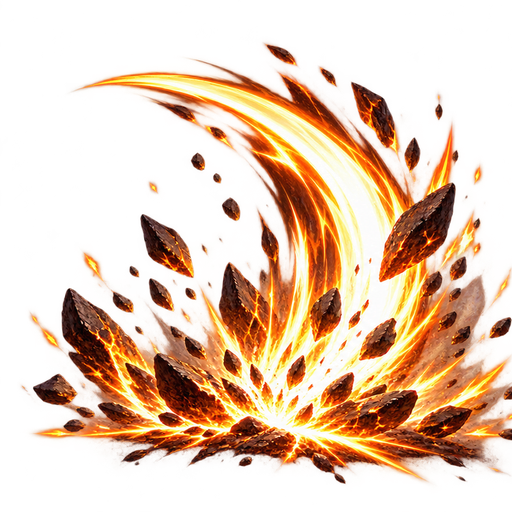
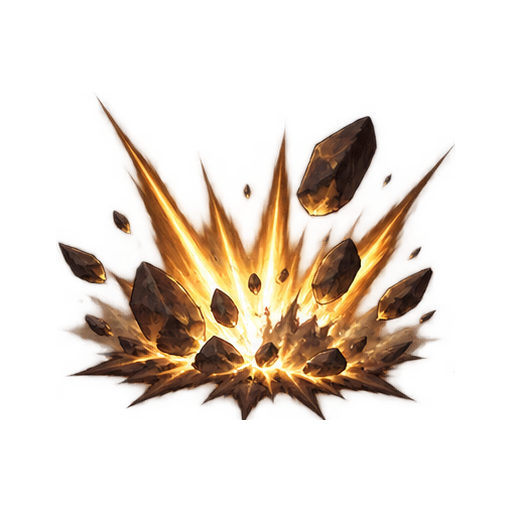
feat(development): integrate affinity-aware player and enemy combat VFX

diff --git a/index.html b/index.html
@@ -63,11 +63,16 @@
 .combatVfx img{display:block;width:100%;height:100%;object-fit:contain}
 .combatVfx.vfxBlock{left:24%;animation:vfxImpact .55s ease-out both}
 .combatVfx.vfxProjectile{left:28%;animation:vfxTravel .5s ease-in both}
+.combatVfx.vfxEnemyImpact{left:24%;top:42%;animation:vfxImpact .5s ease-out both}
+.combatVfx.vfxEnemyProjectile{left:72%;top:42%;animation:vfxEnemyTravel .52s ease-in both}
+.combatVfx.vfxEnemyProjectile img{transform:scaleX(-1)}
+.combatVfx.vfxEnemyWard{left:72%;top:42%;width:clamp(96px,29%,210px);animation:vfxImpact .66s ease-out both}
 .combatVfx[data-kind="Bow"] img{transform:rotate(25deg)}
 .combatVfx[data-kind="Two-Handed"],.combatVfx[data-kind="Staff"]{width:clamp(95px,28%,200px)}
 @keyframes vfxImpact{0%{opacity:0;transform:translate(-50%,-50%) scale(.55) rotate(-18deg)}30%{opacity:1}100%{opacity:0;transform:translate(-50%,-50%) scale(1.2) rotate(10deg)}}
 @keyframes vfxTravel{0%{opacity:0;left:28%;transform:translate(-50%,-50%) scale(.65)}20%{opacity:1}80%{opacity:1}100%{opacity:0;left:72%;transform:translate(-50%,-50%) scale(1)}}
-@media(prefers-reduced-motion:reduce){.combatVfx{animation:vfxFade .3s linear both!important}.combatVfx.vfxProjectile{left:72%}@keyframes vfxFade{0%,70%{opacity:1}100%{opacity:0}}}
+@keyframes vfxEnemyTravel{0%{opacity:0;left:72%;transform:translate(-50%,-50%) scale(.65)}20%{opacity:1}80%{opacity:1}100%{opacity:0;left:24%;transform:translate(-50%,-50%) scale(1)}}
+@media(prefers-reduced-motion:reduce){.combatVfx{animation:vfxFade .3s linear both!important}.combatVfx.vfxProjectile{left:72%}.combatVfx.vfxEnemyProjectile{left:24%}@keyframes vfxFade{0%,70%{opacity:1}100%{opacity:0}}}
 
 /* v0.9 dungeon probabilities */
 .lootOdds{margin:12px 0}.lootOdds table{width:100%;border-collapse:collapse;font-size:12px;white-space:nowrap}
@@ -2637,26 +2642,55 @@ if(!allowUnprotectedLegendaryStart&&unprotected.length){
 }
 let theme=currentTheme(),stats=totalStats();state.run={tier:state.chosen,path:theme.id,favoredGear:[...offeredFavoredGear(theme)],enc:0,status:'ready',hp:stats.maxhp,maxhp:stats.maxhp,mp:stats.mana,maxmp:stats.mana,barrier:0,stats,enemy:null,tPlayer:0,tEnemy:0,tDot:0,loot:[],valuables:[],gold:0,fragments:0,protectedItemIds:chosenProtectionIds(),eliteType:rollEliteArchetype(),playerHealingDebuffUntil:0,combatSeconds:0,setCooldowns:{},secondWindUsed:false};view='combat';logEntries=[];addLog(`Entering ${theme.name} — Dungeon ${state.chosen}.`,'good');save();renderCombat();resetDungeonEntryScroll()}
 function nextEncounter(){const r=state.run;if(!r||r.status!=='ready'||r.enc>=wavesForDungeon(r.tier))return;r.enc++;selectedPath=r.path;r.enemy=enemyFor(r.tier,r.enc);r.tPlayer=r.tEnemy=r.tDot=0;r.setTemp=null;r.playerDebuffUntil=0;r.playerHealingDebuffUntil=0;r.nextCasterHexAt=0;setRuntime(r);r.status='fight';addLog(waveTitle(r.enc)+' '+r.enc+'/'+wavesForDungeon(r.tier)+': '+r.enemy.name);save();renderCombat();clearInterval(clock);clock=setInterval(()=>{if(document.visibilityState!=='hidden')updateFight();},110/clockSpeed)}
-const COMBAT_VFX={Sword:'slash_main_hand',Mace:'smash_main_hand',Daggers:'double_slash_daggers','Off-Hand Dagger':'double_slash_daggers','Two-Handed':'big_slash_two_hand',Bow:'arrow_bow',Staff:'big_spell_projectile_staff',Wand:'spell_projectile_wand',Block:'block'};
-function combatEffect(kind){
- const scene=$('scene'),asset=COMBAT_VFX[kind];if(!scene||!asset)return;
- // Effects are visual only; cap concurrent overlays on fast builds.
+const COMBAT_VFX={
+ Sword:'slash_main_hand',Mace:'smash_main_hand',Daggers:'double_slash_daggers','Off-Hand Dagger':'double_slash_daggers',
+ 'Two-Handed':'big_slash_two_hand',Bow:'arrow_bow',Staff:'big_spell_projectile_staff',Wand:'spell_projectile_wand',Block:'block',
+ EnemySkirmisher:'enemy_skirmisher_slash',EnemyBruiser:'enemy_bruiser_smash',
+ EliteTank:'elite_tank_crushing_blow',EliteBerserker:'elite_berserker_rend',
+ EliteVampire:'elite_vampire_blood_drain',EliteCaster:'elite_caster_hex',
+ BossAbyssal:'boss_abyssal_guardian_barrier',BossRift:'boss_rift_harbinger_soul_bolt',
+ BossEmber:'boss_ember_sovereign_enrage'
+};
+const MAGIC_COMBAT_AFFINITIES=new Set(['poison','burn','slow','drain','nature','shock','tide']);
+function combatVfxAsset(kind,affinity){
+ const base=COMBAT_VFX[kind];
+ if(!base)return null;
+ if((kind==='Staff'||kind==='Wand')&&MAGIC_COMBAT_AFFINITIES.has(affinity))return base+'_'+affinity;
+ return base;
+}
+function combatEffect(kind,affinity=null){
+ const scene=$('scene'),asset=combatVfxAsset(kind,affinity);
+ if(!scene||!asset)return;
+ // Purely cosmetic: keep the effect cap and cleanup even at 4x combat speed.
  const existing=scene.querySelectorAll('.combatVfx');if(existing.length>=8)existing[0].remove();
  const fx=document.createElement('span'),art=document.createElement('img');
- fx.className='combatVfx '+(kind==='Block'?'vfxBlock':['Bow','Staff','Wand'].includes(kind)?'vfxProjectile':'vfxImpact');
+ const ward=kind==='BossAbyssal'||kind==='BossEmber';
+ const enemy=kind.startsWith('Enemy')||kind.startsWith('Elite')||kind.startsWith('Boss');
+ const enemyProjectile=kind==='EliteCaster'||kind==='BossRift';
+ fx.className='combatVfx '+(ward?'vfxEnemyWard':enemy?(enemyProjectile?'vfxEnemyProjectile':'vfxEnemyImpact'):kind==='Block'?'vfxBlock':['Bow','Staff','Wand'].includes(kind)?'vfxProjectile':'vfxImpact');
  fx.dataset.kind=kind;fx.setAttribute('aria-hidden','true');
  art.src='assets/combat-vfx/'+asset+'.png';art.alt='';art.draggable=false;
  fx.appendChild(art);scene.appendChild(fx);
- fx.addEventListener('animationend',()=>fx.remove(),{once:true});setTimeout(()=>fx.remove(),700);
+ fx.addEventListener('animationend',()=>fx.remove(),{once:true});setTimeout(()=>fx.remove(),800);
 }
 function animateStrike(kind,spell=false){
- const img=$('heroPortrait'),scene=$('scene');if(!img||!scene)return;
+ const img=$('heroPortrait');if(!img)return;
  const fx=spell?'fxSpell':kind==='Two-Handed'?'fxHeavy':kind==='Mace'?'fxSmash':kind==='Daggers'?'fxDagger':kind==='Bow'?'fxBow':'fxSlash';
  img.classList.remove('fxSpell','fxHeavy','fxSmash','fxDagger','fxBow','fxSlash');void img.offsetWidth;img.classList.add(fx);
+ // Affinity changes the artwork, never the damage calculation or proc probability.
+ const main=state.run?.stats?.main;
+ combatEffect(kind,spell?(main?.magic||main?.effect):null);
+}
+function animateDefense(){
+ const img=$('heroPortrait');if(img){img.classList.remove('fxBlock');void img.offsetWidth;img.classList.add('fxBlock');combatEffect('Block');}
+}
+function animateEnemyStrike(abilityFx=null){
+ const img=$('enemyPortrait');if(!img)return;
+ img.classList.remove('fxEnemyAttack');void img.offsetWidth;img.classList.add('fxEnemyAttack');
+ const e=state.run?.enemy;
+ const kind=abilityFx||(e?.eliteType==='tank'?'EliteTank':e?.eliteType==='berserker'?'EliteBerserker':e?.role==='bruiser'||e?.boss?'EnemyBruiser':'EnemySkirmisher');
  combatEffect(kind);
 }
-function animateDefense(){const img=$('heroPortrait');if(img){img.classList.remove('fxBlock');void img.offsetWidth;img.classList.add('fxBlock');combatEffect('Block');}}
-function animateEnemyStrike(){const img=$('enemyPortrait');if(img){img.classList.remove('fxEnemyAttack');void img.offsetWidth;img.classList.add('fxEnemyAttack');}}
 function floatText(n,target='enemy',crit=false){const el=$('scene');if(!el)return;let x=document.createElement('span');x.className='float';x.textContent=(crit?'CRIT! ':'')+Math.round(n);x.style.color=crit?'#f4d18a':target==='enemy'?'#f5b5a8':'#a3e1ff';x.style.left=target==='enemy'?'70%':'22%';x.style.top='50%';el.appendChild(x);setTimeout(()=>x.remove(),870)}
 function synchronizeDots(enemy){
  if(!enemy.dots)return;
@@ -3049,12 +3083,13 @@ function updateFight(){
  const slowed=e.slowTime>0?1+(s.bonus.slowBonus||.22):1;
  if(r.tEnemy>=e.attackEvery*slowed){
   r.tEnemy=0;
+  let enemyAbilityVfx=null;
   let raw=Math.max(Math.ceil(e.atk*.24),Math.round(e.atk*(1-Math.min(.75,s.defense/(s.defense+e.atk*1.35)))));
   if(e.effect==='burn')raw+=Math.round(r.tier*.3);
   if(e.effect==='sunder')raw+=Math.round(r.tier*.2);
   if(e.bossStyle==='berserker'&&e.hp<e.maxhp*.5){
    raw=Math.round(raw*1.35);
-   if(!e.enraged){e.enraged=true;addLog('🔥 Ember Sovereign enrages below half HP!','critical');}
+   if(!e.enraged){e.enraged=true;addLog('🔥 Ember Sovereign enrages below half HP!','critical');combatEffect('BossEmber');}
   }
   if(e.eliteType==='berserker'&&e.hp<e.maxhp*.5)raw=Math.round(raw*1.08);
   const weaker=setEnemyWeaken(r);
@@ -3083,20 +3118,20 @@ function updateFight(){
    }
    if(e.eliteType==='vampire'){
     const heal=Math.min(Math.max(0,e.maxhp-e.hp),Math.max(1,Math.round(hit*.38)),Math.max(1,Math.round(e.maxhp*.06)));
-    if(heal>0){e.hp+=heal;addLog('🩸 Vampire drains '+heal+' HP','spell');}
+    if(heal>0){e.hp+=heal;addLog('🩸 Vampire drains '+heal+' HP','spell');enemyAbilityVfx='EliteVampire';}
    }
    if(e.eliteType==='caster'&&r.combatSeconds>=(r.nextCasterHexAt||0)){
     r.playerDebuffUntil=r.combatSeconds+3;r.nextCasterHexAt=r.combatSeconds+7;
-    addLog('🔮 Caster applies Weakened: -20% direct damage for 3s!','spell');
+    addLog('🔮 Caster applies Weakened: -20% direct damage for 3s!','spell');enemyAbilityVfx='EliteCaster';
    }
   }
-  if(e.bossStyle==='leech'&&hit>0){const heal=Math.min(e.maxhp-e.hp,Math.round(hit*.28));e.hp+=heal;if(heal)addLog('🌑 Rift Harbinger drains '+heal+' HP','spell');}
-  if(e.bossStyle==='guardian'&&!e.barrier){e.barrier=Math.max(2,Math.round(r.tier*.45));addLog('🛡 Abyssal Guardian restores '+e.barrier+' Barrier','spell');}
+  if(e.bossStyle==='leech'&&hit>0){const heal=Math.min(e.maxhp-e.hp,Math.round(hit*.28));e.hp+=heal;if(heal){addLog('🌑 Rift Harbinger drains '+heal+' HP','spell');enemyAbilityVfx='BossRift';}}
+  if(e.bossStyle==='guardian'&&!e.barrier){e.barrier=Math.max(2,Math.round(r.tier*.45));addLog('🛡 Abyssal Guardian restores '+e.barrier+' Barrier','spell');combatEffect('BossAbyssal');}
   legendaryDefensiveEffects(r,damageBlocked,hit,blocked,barrierBeforeHit>0&&r.barrier<=0);
   if(s.bonus.lastBastion&&r.barrier>=r.maxhp*.1&&setReady(r,'lastBastion',12))t.lastBastionReady=true;
   if(r.hp>0&&s.bonus.natureRenewal&&!t.natureRenewalUsed&&r.hp<=r.maxhp*.35){t.natureRenewalUsed=true;const gained=setHeal(r,r.maxhp*.08);addLog('🌿 Verdant Renewal: +'+Math.round(gained)+' HP','good');}
   if(r.hp>0&&s.bonus.tideSurge&&!t.tideSurgeUsed&&r.barrier<r.maxhp*.05){t.tideSurgeUsed=true;const gained=setBarrier(r,r.maxhp*.08);addLog('🌊 High Tide: +'+Math.round(gained)+' Barrier','good');}
-  animateEnemyStrike();
+  animateEnemyStrike(enemyAbilityVfx);
  }
  if(r.hp<=0){
   if(s.bonus.secondWind&&!r.secondWindUsed){r.secondWindUsed=true;r.hp=1;setBarrier(r,r.maxhp*.08);addLog('💚 Second Wind! Survived lethal damage (once per expedition)','good');}

diff --git a/assets/combat-vfx/README.md b/assets/combat-vfx/README.md
@@ -1,7 +1,12 @@
-# Combat VFX pack
+# Wanderer combat VFX — 18 October 2026
 
-Source: user-provided Wanderer_Equipment_and_Combat_VFX_2026_10_15_v2.zip.
+29 transparent 512×512 RGBA PNG assets from the Wanderer art pack on Google Drive. Single-frame effects animated with CSS, not sprite sheets.
 
-Eight original 512×512 transparent PNG images; these are single frames animated with CSS, not sprite sheets. `pack-manifest.json` preserves the original archive metadata (its paths refer to the source ZIP). Equipment PNGs from the same pack are installed in `assets/equipment/` and listed in that directory’s manifest.
+- 6 physical/defensive effects: Sword, Mace, Daggers, Two-Handed, Bow and Block.
+- 7 Staff projectiles and 7 Wand projectiles, selected by the **weapon's saved affinity** (`burn`, `slow`, `poison`, `drain`, `nature`, `shock`, `tide`). The existing generic Staff/Wand PNGs remain as compatibility fallbacks.
+- 2 normal-enemy effects, 4 Elite effects and 3 Boss effects. Abyssal blue Barrier plays when restored; Rift red life-drain on successful healing; Ember amber Enrage on first activation. Tank/Berserker hits have distinct VFX; Caster/Vampire abilities use their VFX only when activated.
+- In `index.html`, `combatVfxAsset` and `combatEffect` select the art. Enemy projectiles travel right-to-left; reduced-motion CSS and effect cap preserved.
 
-Runtime mapping is COMBAT_VFX in index.html. Effects are cosmetic and do not determine damage, affinity or attack cadence.
+No gameplay, balance, save schema, Firebase configuration or hosting changes. `pack-manifest.json` is the historical 2026-10-15 source manifest, **not** this pack's inventory.
+
+Run `node tests/vfx-affinity-enemy-smoke.cjs` to validate all 29 images and visual routing, and `npm test` for the complete suite.
